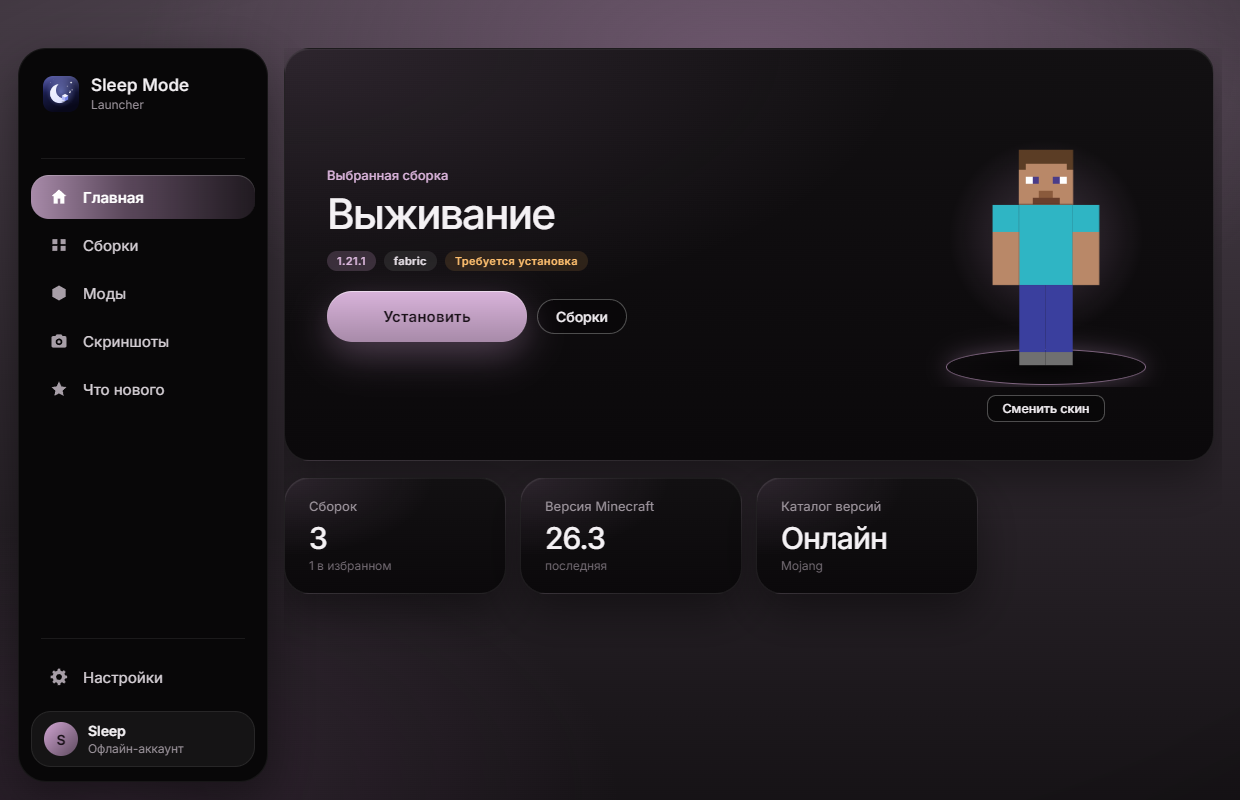
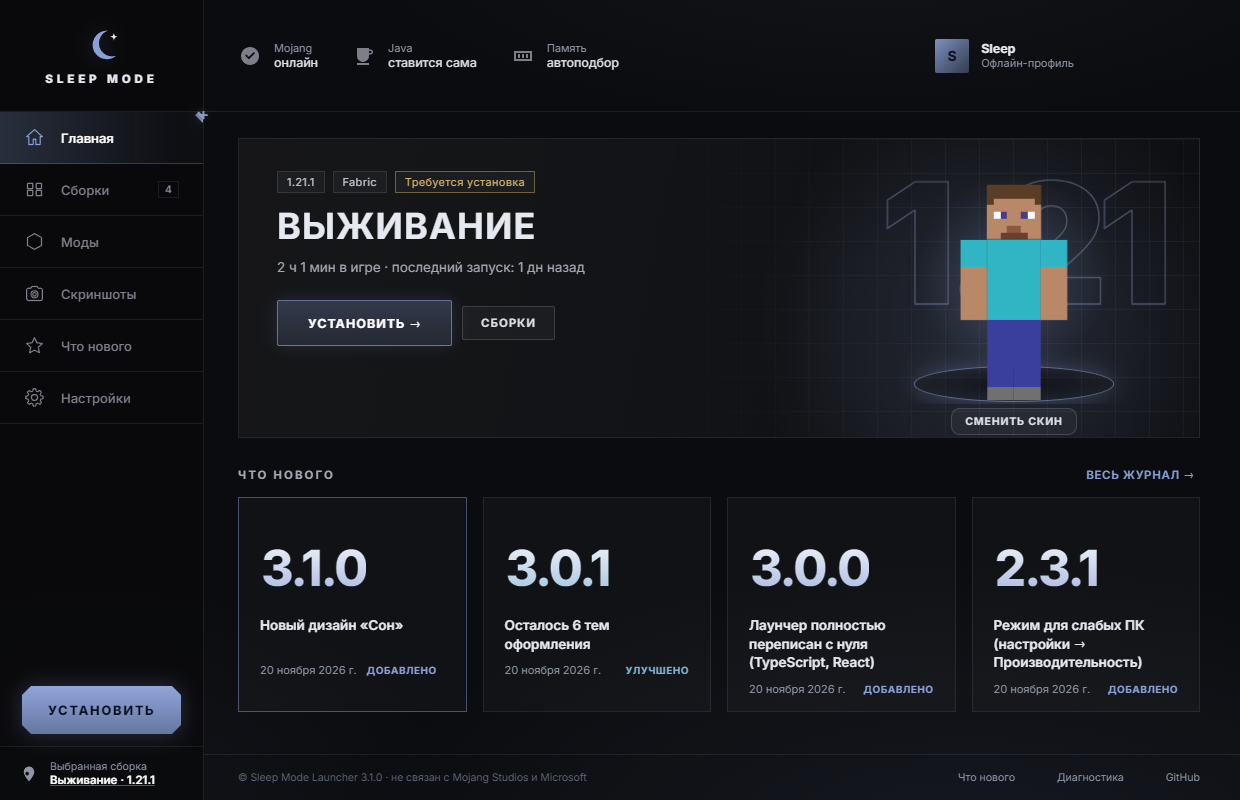
Скриншоты и описание: дизайн 3.1.0

diff --git a/README.md b/README.md
@@ -35,13 +35,14 @@
 | **Умные настройки** | Автоподбор памяти и аргументов JVM, профили графики «Слабый ПК / Средний / Максимум» |
 | **Миры под защитой** | Автоматические копии миров после игры и восстановление в один клик |
 | **Диагностика** | Проверка связи, диска, памяти, Java и целостности файлов; анализ падений игры с подсказками и отключением виновного мода; очистка лишнего |
-| **Оформление** | Тёмная и светлая темы, готовые темы-настроения, настраиваемые цвета, режим для слабых ПК, 3D-предпросмотр скина |
+| **Оформление** | Холодный тёмный дизайн «Сон», шесть тем на выбор (Сон, Лёд, Сумерки, Север, Туман, Ember), настраиваемый акцент и фон, режим для слабых ПК, 3D-модель вашего скина |
 | **Лёгкий** | Скрывается в трей на время игры и освобождает память |
 
 <p align="center">
   <img src="docs/library.png" alt="Сборки" width="420">
+  <img src="docs/news.png" alt="Что нового" width="420">
   <img src="docs/mods.png" alt="Каталог модов" width="420">
-  <img src="docs/skins.png" alt="Выбор скина" width="420">
+  <img src="docs/themes.png" alt="Темы оформления" width="420">
 </p>
 
 ## Вход в аккаунт
